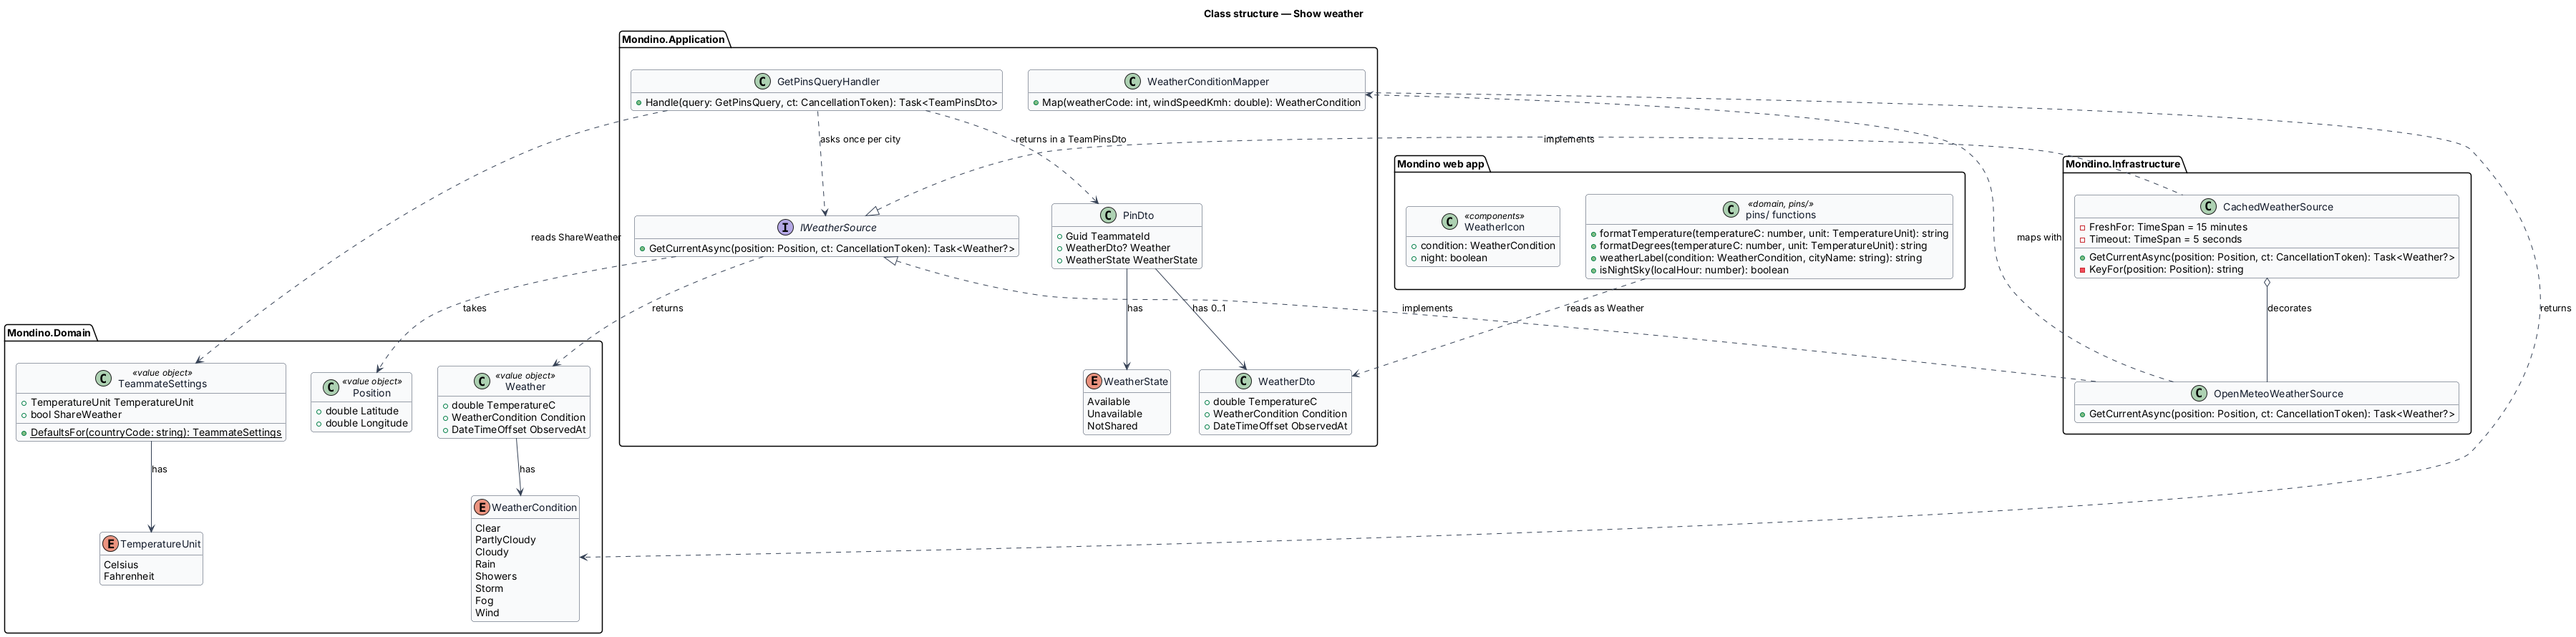
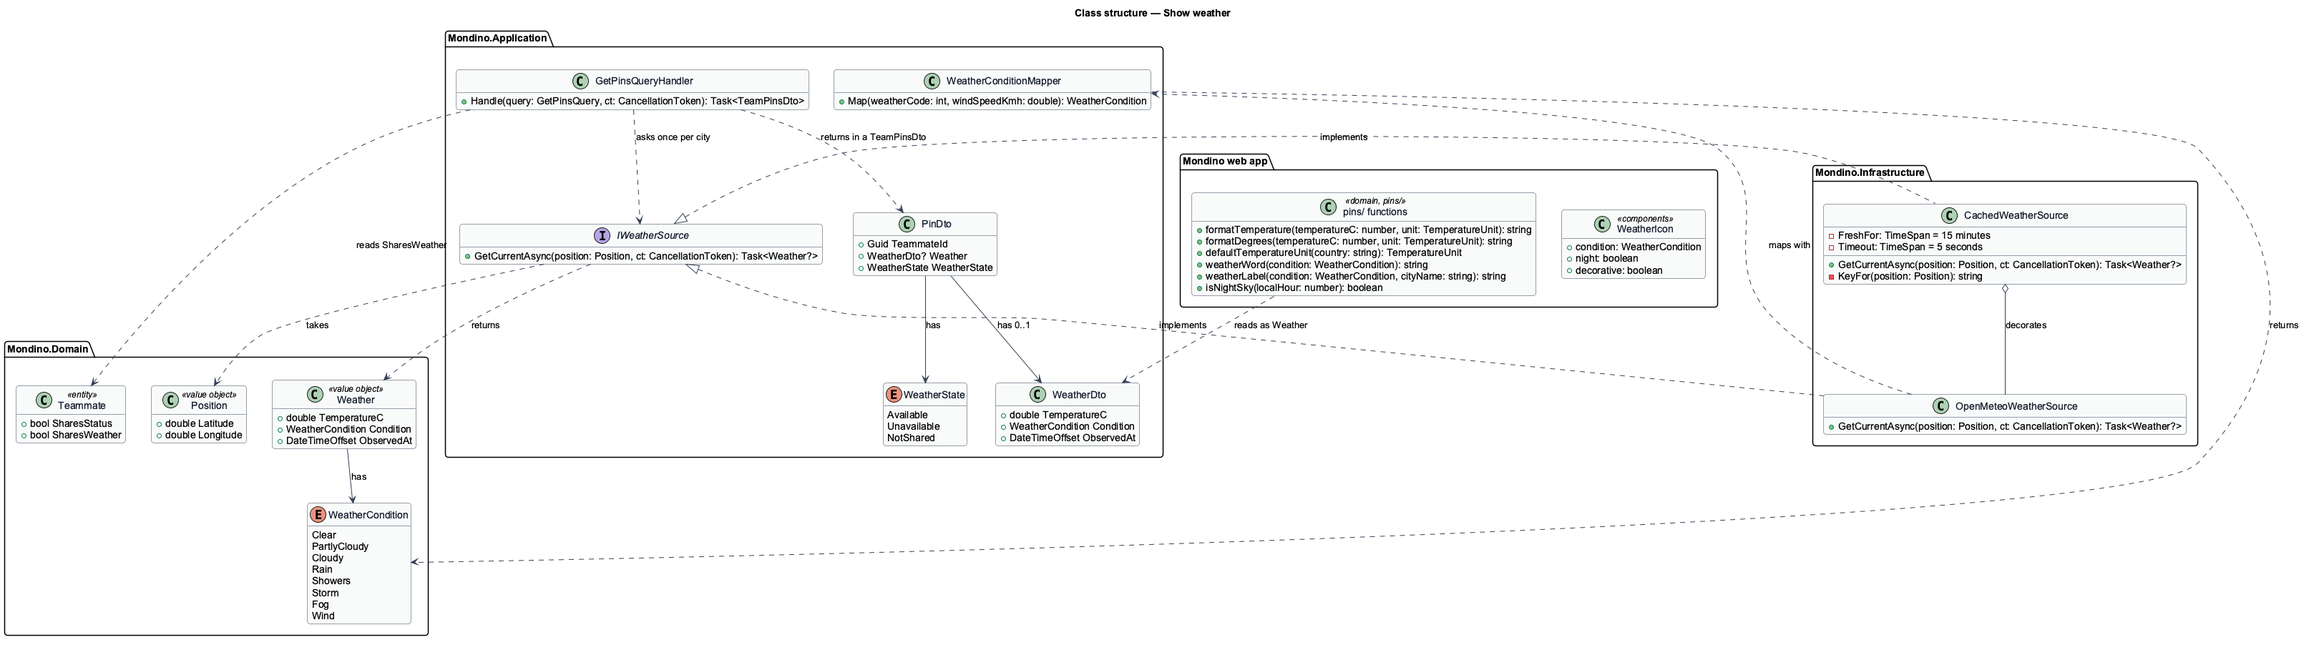
Decide the weather source and bring the show-weather design in line with the mocks
ADR 0015: Open-Meteo, given a city's position rounded to two decimals,
asked once per city and kept 15 minutes; Windy from 39 km/h. The pin
label carries its icon and degrees at rest, as the mocks draw it.

diff --git a/docs/detailed-designs/weather/show-weather/README.md b/docs/detailed-designs/weather/show-weather/README.md
@@ -37,10 +37,11 @@ weather is available, unavailable or not shared, so the web app can say which.
   held in °C only; conversion to °F is a matter of display.
 - **`WeatherCondition`** — enumeration of the eight conditions: `Clear`, `PartlyCloudy`,
   `Cloudy`, `Rain`, `Showers`, `Storm`, `Fog`, `Wind`.
-- **`TeammateSettings`** — value object holding `TemperatureUnit` and `ShareWeather`. Its
-  `DefaultsFor(countryCode)` gives a new teammate `Fahrenheit` for the United States and
-  `Celsius` elsewhere (L2-019), with `ShareWeather` on. `JoinTeamCommandHandler` calls it when a
-  teammate joins.
+- **`Teammate`** — entity. Its `SharesWeather` records the teammate's choice for "Share my
+  local weather", on to begin with, beside `SharesStatus`. The switch that changes it comes with
+  Profile & Settings (`choose-display-and-sharing`), which moves both into `TeammateSettings`
+  beside the unit and the clock. Until then no unit is stored: the browser starts the unit from
+  the country (`defaultTemperatureUnit`), as it starts the clock (ADR 0015).
 
 ### Backend — `Mondino.Application`
 
@@ -48,14 +49,17 @@ weather is available, unavailable or not shared, so the web app can say which.
   `GetCurrentAsync(Position position, CancellationToken ct): Task<Weather?>`. It takes a
   position and no teammate. It returns `null` when no weather can be given.
 - **`GetPinsQueryHandler`** — MediatR handler for `GetPinsQuery`. It loads the team's teammates,
-  collects the distinct cities among those whose weather the viewer may see, and calls
-  `IWeatherSource` once per city, in parallel. It then builds each `PinDto` and returns them in
-  the `TeamPinsDto`. A teammate whose `ShareWeather` is off gets `Weather` `null` and
+  collects the distinct cities among those whose weather the viewer may see, by their position
+  rounded to two decimal places, and calls `IWeatherSource` once per city, in parallel. It then builds each `PinDto` and returns them in
+  the `TeamPinsDto`. A teammate whose `SharesWeather` is off gets `Weather` `null` and
   `WeatherState` `NotShared`, except on the viewer's own pin. A city whose weather is `null`
   gives `Weather` `null`, `WeatherState` `Unavailable` and the rest of the pin unchanged; the
   handler does not fail. Every other pin has its `Weather` and `WeatherState` `Available`.
 - **`WeatherDto`** — `TemperatureC`, `Condition` and `ObservedAt`, carried as `PinDto.Weather`
-  and in `PostalCodeResultDto`. It carries no unit and no temperature in °F.
+  and as `PostalCodeResultDto.Weather`, the weather at the city a postal code was found in
+  (`LookUpPostalCodeQueryHandler` asks `IWeatherSource` for it; none when it has none). It
+  carries no unit and no temperature in °F. `Condition` travels as the web app's word for it:
+  `clear`, `partly-cloudy`, `cloudy`, `rain`, `showers`, `storm`, `fog` or `wind`.
 - **`WeatherState`** — enumeration carried as `PinDto.WeatherState`: `Available`, `Unavailable`
   or `NotShared`. `PinDto.Weather` is `null` unless the state is `Available`.
 - **`WeatherConditionMapper`** — service with
@@ -78,8 +82,8 @@ weather is available, unavailable or not shared, so the web app can say which.
 | any other | — | `Cloudy` |
 
   The WMO codes hold no code for wind. When the code maps to `Clear`, `PartlyCloudy` or `Cloudy`
-  and `windSpeedKmh` is at or above the wind threshold, the mapper returns `Wind`. The wind
-  threshold is `<TO SUPPLY>`.
+  and `windSpeedKmh` is at or above the wind threshold, 39 km/h (Beaufort force 6, a strong
+  breeze; ADR 0015), the mapper returns `Wind`.
 
 ### Backend — `Mondino.Infrastructure`
 
@@ -88,16 +92,19 @@ weather is available, unavailable or not shared, so the web app can say which.
   longitude from Open-Meteo's forecast endpoint. The latitude and longitude are the city's
   position rounded to two decimal places, and the request carries nothing else about a
   teammate. It passes the weather code and wind speed to `WeatherConditionMapper` and returns a
-  `Weather`. The base address is a documented setting of the deployed system.
+  `Weather`, observed at the answer's `current.time` (GMT). No answer, a status other than 200 or
+  an answer without a temperature or a code is `null`. Its settings are
+  `WeatherSource:BaseAddress` and, for a commercial subscription, `WeatherSource:ApiKey`, sent as
+  `apikey` (ADR 0015). Its client logs nothing.
 - **`CachedWeatherSource`** — decorator implementing `IWeatherSource` over
   `OpenMeteoWeatherSource`; it is the implementation registered for the interface. Its key is
   the position rounded to two decimal places, so two teammates in one city share one entry and
   one call (L2-018). An entry younger than 15 minutes is returned without calling the source.
   Age is measured with `TimeProvider`. Concurrent requests for one key share one call. A call
-  runs under a 5 second timeout and a circuit breaker. When a call fails or times out, the
-  decorator returns the entry it holds if that entry is less than 3 hours old, and `null`
-  otherwise (L2-049). Entries are dropped at 3 hours, so the cache holds at most one entry per
-  city with a teammate.
+  runs under a 5 second timeout; a call that fails or times out gives `null`, and is not kept.
+  At most 10,000 entries are held, one per city with a teammate. The circuit breaker, and
+  returning an entry up to 3 hours old while the source fails (L2-049), come with
+  `survive-source-failure` (journey 26), which keeps entries 3 hours for it.
 
 ### Backend — `Mondino.Api`
 
@@ -112,6 +119,9 @@ weather is available, unavailable or not shared, so the web app can say which.
 - **`Pin`** — its `weather` is a `Weather` or `null`, and its `weatherState` a `WeatherState`.
 - **`WeatherState`** — `'Available' | 'Unavailable' | 'NotShared'`, the names `PinDto.WeatherState` carries.
 - **`TemperatureUnit`** — `'celsius' | 'fahrenheit'`, in the viewer's `Settings`.
+- **`PostalCodeResult`** — its `weather` is a `Weather` or `null`.
+- **`PinView`** — its `weather` is a `PinWeather` (`degrees`, `condition`, `word`, `night`) or
+  `null` when the pin's weather is not `Available`.
 
 ### Frontend — `domain` library, `pins/`
 
@@ -123,6 +133,9 @@ weather is available, unavailable or not shared, so the web app can say which.
   `formatTemperature` does and appends the degree sign alone: 13 °C gives "13°" and, for
   `fahrenheit`, "55°". This is the form a pin's label, a pin's accessible name and a Team row
   show.
+- **`defaultTemperatureUnit(country): TemperatureUnit`** — pure function: `fahrenheit` for the
+  United States, `celsius` elsewhere (L2-019), until Profile & Settings stores a choice.
+- **`weatherWord(condition): string`** — pure function: the condition's word, "Partly cloudy".
 - **`weatherLabel(condition, cityName): string`** — pure function. It gives the condition's
   word with the city ("Foggy in Milan"). The city's name is data and is rendered as text. The
   words are the mocks': "Clear", "Partly cloudy", "Cloudy", "Rainy", "Showers", "Stormy",
@@ -135,18 +148,25 @@ weather is available, unavailable or not shared, so the web app can say which.
 
 - **`GlobePage`**, **`TeamPage`** and **`JoinPage`** — pages in the `mondino` application. Each
   derives, in a `computed`, the temperature text from `pin.weather` and the viewer's
-  `TemperatureUnit`, the label, and the night flag from the pin's local hour. The viewer's
+  `TemperatureUnit`, the label, and the night flag from the pin's local hour. `GlobePage` does it
+  through `pinViews`, which gives each `PinView` its `PinWeather` and puts the word and the
+  degrees in the pin's accessible name after the status ("Partly cloudy 22°"). `JoinPage` and
+  `CreateTeamPage` give `LookupMessage` the found line's weather, `foundWeather(weather, unit)`:
+  "13° and foggy right now.", in the unit of the country chosen in the form, the word in lower
+  case; nothing when the lookup has no weather. The viewer's
   settings are a signal held by `SettingsCache` and updated when `ProfilePage` saves, so a saved
   change of unit reaches every temperature on every screen (L2-019).
-- **`WeatherIcon`** (`mo-weather-icon`) — presentation component with inputs `condition` and
-  `night`. It draws one bundled SVG per condition, with a night form for `clear` and
+- **`WeatherIcon`** (`svg[mo-weather-icon]`, the mocks' `svg.icon`) — presentation component
+  with inputs `condition` and `night`. It draws one bundled SVG per condition, with a night form for `clear` and
   `partly-cloudy`; `night` has no effect on the other six. The icon is exposed as an image whose
-  accessible name is the condition's word (L2-018). Icons are bundled with the app and never
-  loaded from a CDN.
+  accessible name is the condition's word (L2-018), unless it is `decorative`: beside its word,
+  or in a pin's label, whose pin names the word, it is hidden, as the mocks draw it. Icons are
+  bundled with the app and never loaded from a CDN.
 - **`PinLabel`**, **`TeammatePanel`** and **`TeamTable`** — presentation components. Each takes
   the temperature text, the condition and the night flag as inputs and sets the temperature in
-  tabular figures. A pin's label shows the degrees beside the local time and, when the pin is
-  lifted, the icon and the condition's word as well. The panel shows the icon, the temperature
+  tabular figures. A pin's label shows the icon and the degrees beside the local time, and,
+  when the pin is lifted, the condition's word as well (`pages/globe/default`,
+  `pages/globe/selected`). The label placer allows a label with weather the width it is drawn at. The panel shows the icon, the temperature
   with its unit and the label. A Team row shows the icon and the degrees.
 
 When `pin.weather` is `null` no temperature and no condition is shown, and a pin's label and
@@ -166,6 +186,9 @@ alone. The teammate is named by `firstName(name)` from `pins/`, the first word o
 it is data and is rendered as text. What the panel says for a teammate who shares their
 status and not their weather is `<TO SUPPLY>`: the mocks draw only the teammate who shares
 neither.
+
+Open questions: where Open-Meteo's attribution (CC BY 4.0) is shown; no mock draws it
+(ADR 0015).
 
 ## Requirements
 

diff --git a/docs/adr/0015-weather-source.md b/docs/adr/0015-weather-source.md
@@ -1,0 +1,68 @@
+# 0015: The weather comes from Open-Meteo, asked once per city and kept 15 minutes
+
+**Status:** Accepted (journey 13, Show weather). Follows [ADR 0006](0006-postal-code-source.md)
+for an outside source behind an interface.
+
+## Context
+
+Each pin carries the current temperature and one of eight conditions for its city (L2-018), and
+the Join and Create Team screens name the weather at the city a postal code was found in
+(L2-003). The instructions name Open-Meteo as the source and the backend as its only caller.
+`weather/show-weather` left open the wind speed that turns a reading into "Windy": the WMO weather
+codes Open-Meteo reports have no code for wind.
+
+## Decision
+
+- **The weather source is Open-Meteo's forecast API** (`v1/forecast`), asked for the `current`
+  `temperature_2m` (°C), `weather_code` (WMO) and `wind_speed_10m` (km/h), the API's default
+  units. `OpenMeteoWeatherSource` implements `IWeatherSource` in `Mondino.Infrastructure`.
+- **It is given a position and nothing else.** The latitude and longitude are the city's own
+  position (never a postal code's, ADR 0006) rounded to two decimal places, about a kilometre.
+  The request carries no name, team, token, session or client address; with a commercial
+  subscription it also carries the subscription's `apikey`, which names Mondino, not a teammate.
+  The source's client has its loggers removed, as the postal code source's has.
+- **One call per city.** `GetPinsQueryHandler` asks once for each distinct rounded position among
+  the pins whose weather the viewer may see, in parallel. `CachedWeatherSource`, the registered
+  `IWeatherSource`, keys on the same rounded position and returns an answer younger than
+  15 minutes without a call (L2-018); concurrent requests for one key share one call. An answer
+  is dropped once it is stale; at most 10,000 are held. A failure is not kept, so the next read
+  asks again.
+- **5 seconds.** A call that has not answered in 5 seconds (by `TimeProvider`) gives no weather.
+  No answer, a status other than 200, or an answer without a temperature or a code gives no
+  weather either. No weather is `WeatherState` `Unavailable`; the pin keeps its local time, and
+  nothing fails.
+- **The eight conditions.** `WeatherConditionMapper` maps the WMO code by the table in
+  `weather/show-weather`; a code outside the table is `Cloudy`, so there is always an icon.
+- **Windy is a sustained wind of 39 km/h or more at 10 m** (Beaufort force 6, a strong breeze,
+  the force at which an umbrella is hard to hold), and applies only to a sky the code reports as
+  clear, partly cloudy or cloudy: rain, showers, a storm or fog say more than the wind does.
+- **The condition travels as a word of the web app's**: `clear`, `partly-cloudy`, `cloudy`,
+  `rain`, `showers`, `storm`, `fog`, `wind`. The temperature travels in °C only; the browser
+  converts it to the viewer's unit and rounds it.
+- **The unit starts from the country in the browser.** Until Profile & Settings stores a choice
+  (journey 23), the viewer's unit is °F when their pin is in the United States and °C elsewhere,
+  as the clock's default is worked out (journey 11). On Join and Create Team it follows the
+  country chosen in the form.
+- **"Share my local weather"** is `Teammate.SharesWeather`, on to begin with, beside
+  `SharesStatus`; off, the teammate's pin carries `WeatherState` `NotShared` and no weather for
+  anyone else, and the source is not asked for their city on that teammate's account. The switch
+  comes with journey 23.
+- **Not yet:** the circuit breaker and serving an answer up to 3 hours old while the source fails
+  come with journey 26 (`survive-source-failure`, L2-049).
+
+## Settings
+
+| Setting | Meaning | Default |
+|---|---|---|
+| `WeatherSource:BaseAddress` | Open-Meteo's API. A commercial subscription uses `https://customer-api.open-meteo.com/`. | `https://api.open-meteo.com/` |
+| `WeatherSource:ApiKey` | The subscription's key, sent as `apikey`. Without it the free API is called, which Open-Meteo offers for non-commercial use. | none |
+
+## Consequences
+
+- A team in twelve cities costs at most twelve calls every 15 minutes, however many teammates
+  live in each and however often they look; the free API's limit (10,000 calls a day) holds a
+  few hundred busy teams' cities.
+- Open-Meteo's data is CC BY 4.0 and asks for attribution. No mock draws where it goes; it is an
+  open question in `weather/show-weather`.
+- Changing the source changes only `OpenMeteoWeatherSource`; the mapper's table, the cache and
+  the handler stay.

diff --git a/docs/deployment/README.md b/docs/deployment/README.md
@@ -63,6 +63,8 @@ https://mondino-app-27660.azurewebsites.net
 | `SignInEmail__ServerToken` | the Postmark server token, as an App Service setting or a Key Vault reference | Sign In mails its links through Postmark; without it no mail leaves and Sign In still answers "Check your inbox" (ADR [0011](../adr/0011-signing-in-with-an-emailed-link.md)) |
 | `SignInEmail__From` | a sender signature or verified domain in Postmark, for example `Mondino <signin@mondino.app>` | the sender of sign-in emails; without it no mail leaves (ADR [0011](../adr/0011-signing-in-with-an-emailed-link.md)) |
 | `SignInEmail__AppAddress` | the app's own address, for example `https://mondino-app-27660.azurewebsites.net` | the start of every sign-in link; never taken from the request's `Host`, so a forged `Host` cannot send a teammate a link to another site (ADR [0011](../adr/0011-signing-in-with-an-emailed-link.md)) |
+| `WeatherSource__BaseAddress` | `https://api.open-meteo.com/` (the default), or `https://customer-api.open-meteo.com/` with a commercial subscription | where the pins' weather is read from; Open-Meteo learns only a city's position, rounded (ADR [0015](../adr/0015-weather-source.md)) |
+| `WeatherSource__ApiKey` | the Open-Meteo subscription's key, as an App Service setting or a Key Vault reference; none for the free API | the free API is for non-commercial use; without the key a commercial deployment must not call it (ADR [0015](../adr/0015-weather-source.md)) |
 
 `EmailProtection__Key` and `PostalCodeSource__Username` are required: the deploy workflow checks
 that both are set on the App Service (by name; it never reads a value) and refuses to deploy

diff --git a/docs/detailed-designs/README.md b/docs/detailed-designs/README.md
@@ -123,7 +123,9 @@ Every L2 requirement, L2-001 to L2-056, is realised by exactly one feature.
   `RateLimitPolicies` (`protect-team-data`).
 - `IWeatherSource.GetCurrentAsync(position)` answers a `Weather` or nothing; nothing is never
   shown as zero. Every call to an outside source times out after 5 s, and weather is fresh for
-  15 minutes.
+  15 minutes. Open-Meteo is given a city's position rounded to two decimal places and nothing
+  else (ADR 0015). `WeatherDto.Condition` travels as the web app's word (`partly-cloudy`), and
+  the temperature in °C only. `PostalCodeResultDto.Weather` is the weather at the city found.
 - The `globe` library depends on `api` only (ADR 0014). `GlobeView` reports where things are on
   the globe as a `GlobeViewport` (`viewChange`) and a tap on no pin (`blankTap`); `GlobePage`
   places the pins itself with `placePins` (`domain`'s `pins/`), which groups pins that would

diff --git a/docs/detailed-designs/globe/show-pins/README.md b/docs/detailed-designs/globe/show-pins/README.md
@@ -44,7 +44,7 @@ decides how they are drawn.
   that does not exist (L2-043). For each distinct city it asks `IWeatherSource` for the
   weather and `MomentFinder` for the moments, then builds one `PinDto` for each teammate and
   answers them in a `TeamPinsDto` (the team's id and name, its invite token, the viewer's
-  teammate id and the pins). A teammate whose `TeammateSettings.ShareWeather` is false gets a
+  teammate id and the pins). A teammate whose `Teammate.SharesWeather` is false gets a
   null weather and the `WeatherState` `NotShared`. When the weather source fails or times out
   the weather is null, the `WeatherState` is `Unavailable` and the pin is still returned
   (L2-049). The weather source receives a position and nothing else.

diff --git a/docs/adr/README.md b/docs/adr/README.md
@@ -22,5 +22,6 @@ Playwright, WCAG) needs a record here that gives its reason.
 | [0012](0012-drawing-the-globe.md) | The globe is drawn by three.js from a Blender-built glTF model and mask textures | Accepted |
 | [0013](0013-turning-the-globe.md) | The globe turns from one frame loop, at numbers of its own, and only the Globe screen's globe turns on its own | Accepted |
 | [0014](0014-drawing-the-pins.md) | The page places the pins over the globe, and the numbers that group, fade and label them | Accepted |
+| [0015](0015-weather-source.md) | The weather comes from Open-Meteo, asked once per city and kept 15 minutes | Accepted |
 
 Not decided yet, by the journey that first needs it: the providers of the calendars (journey 19).
